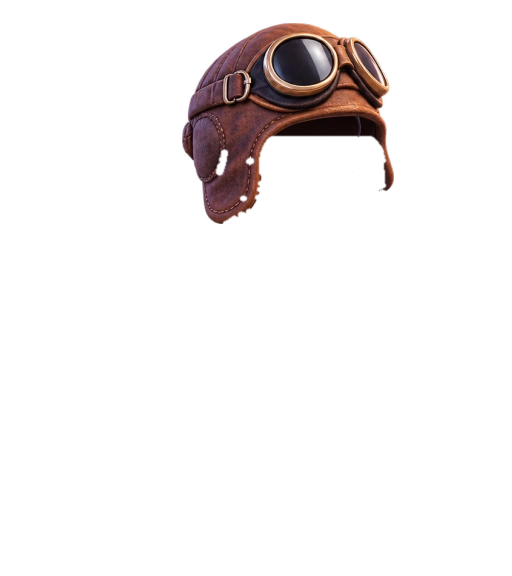
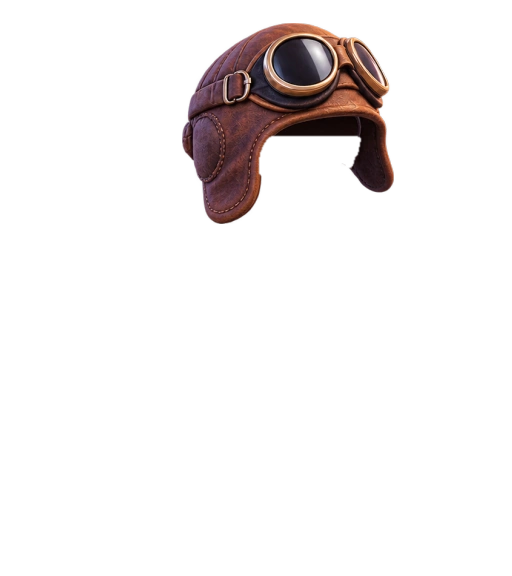
polish: keep only main cavity when carving hat interior around head

diff --git a/src/ui.tsx b/src/ui.tsx
@@ -123,7 +123,7 @@ export const PIGEON_SKIN_COLORS: Record<string, string> = {
   "iridescent-oil-slick": "#5e5a67", "skin-18": "#5e5a67", "18": "#5e5a67",
 };
 
-const ASSET_V = "?v=24";
+const ASSET_V = "?v=25";
 
 export function resolveSkinSrc(skin?: string | null): string {
   if (!skin || skin === "common" || skin === "default") {

diff --git a/scripts/build-pigeon-assets.py b/scripts/build-pigeon-assets.py
@@ -594,8 +594,14 @@ def build_standalone_hats_assets(session, ref_rgba: np.ndarray | None = None):
                         bright = canvas[:, :, :3].mean(axis=2)
                         thresh = 28 if item_idx == 1 else 32
                         interior = ref_head_pad & (bright < thresh) & (y_grid >= y_mid) & (canvas[:, :, 3] > 20)
-                        interior = cv2.dilate(interior.astype(np.uint8), cv2.getStructuringElement(cv2.MORPH_ELLIPSE, (7, 7))) > 0
-                        keep_mask = cv2.GaussianBlur((~interior).astype(np.float32), (3, 3), 0.7)
+                        n_int, l_int, s_int, _ = cv2.connectedComponentsWithStats(interior.astype(np.uint8))
+                        clean_int = np.zeros_like(interior)
+                        if n_int > 1:
+                            main_int = int(np.argmax(s_int[1:, cv2.CC_STAT_AREA]) + 1)
+                            if s_int[main_int, cv2.CC_STAT_AREA] >= 150:
+                                clean_int = (l_int == main_int)
+                        clean_int = cv2.dilate(clean_int.astype(np.uint8), cv2.getStructuringElement(cv2.MORPH_ELLIPSE, (7, 7))) > 0
+                        keep_mask = cv2.GaussianBlur((~clean_int).astype(np.float32), (3, 3), 0.7)
                         canvas[:, :, 3] = np.clip(canvas[:, :, 3].astype(np.float32) * keep_mask, 0, 255).astype(np.uint8)
 
                 out_file = out_slot_dir / f"hats-{item_idx:02d}.webp"
